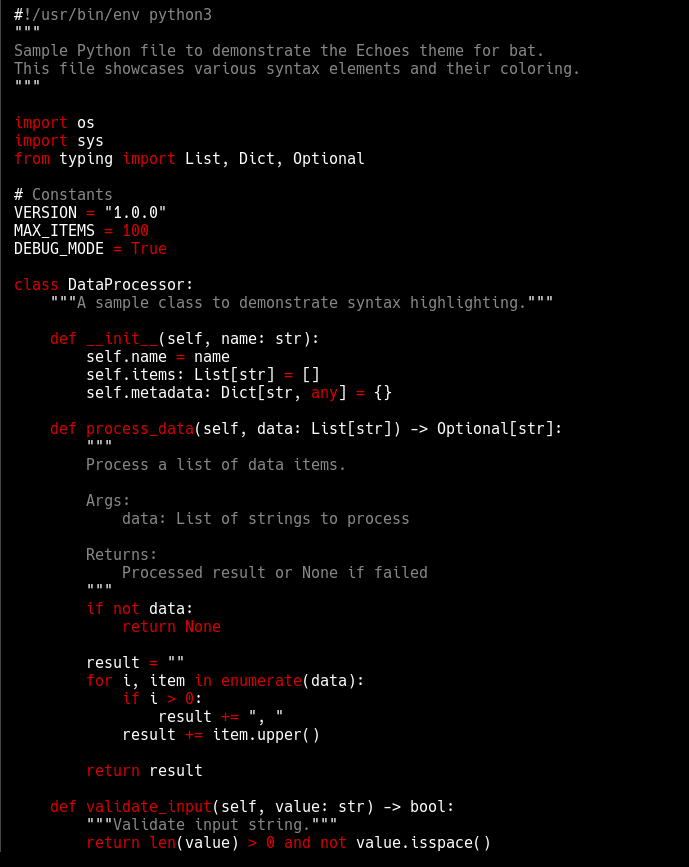
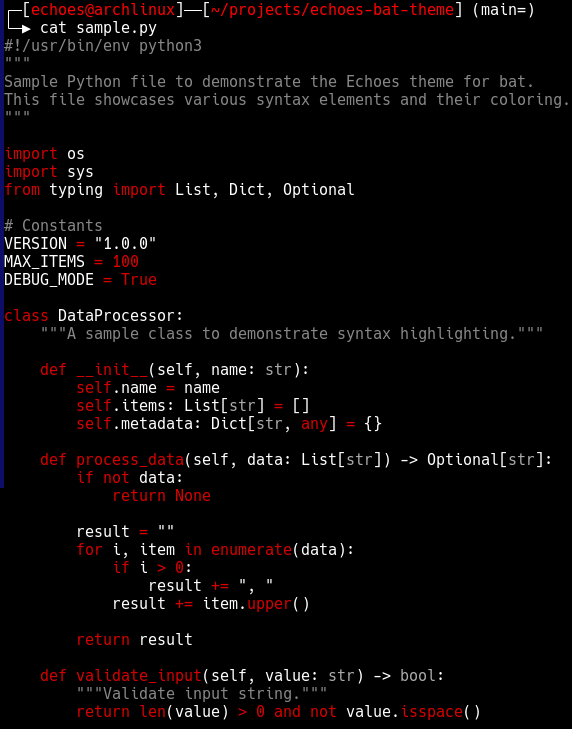
update picture

diff --git a/sample.py b/sample.py
@@ -22,15 +22,6 @@ class DataProcessor:
         self.metadata: Dict[str, any] = {}
     
     def process_data(self, data: List[str]) -> Optional[str]:
-        """
-        Process a list of data items.
-        
-        Args:
-            data: List of strings to process
-            
-        Returns:
-            Processed result or None if failed
-        """
         if not data:
             return None
             
